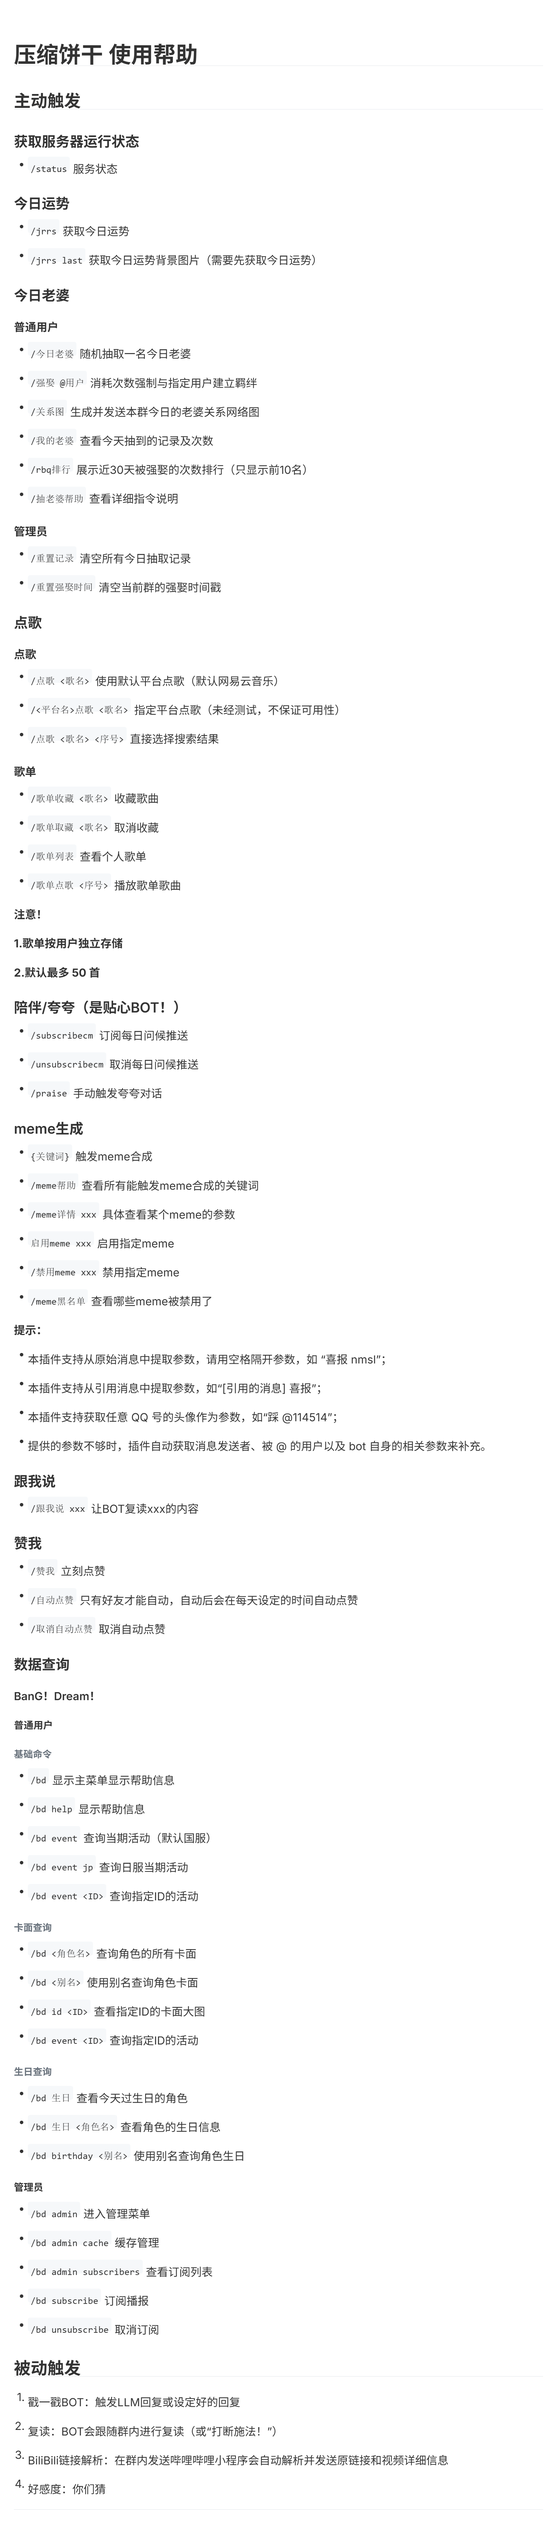
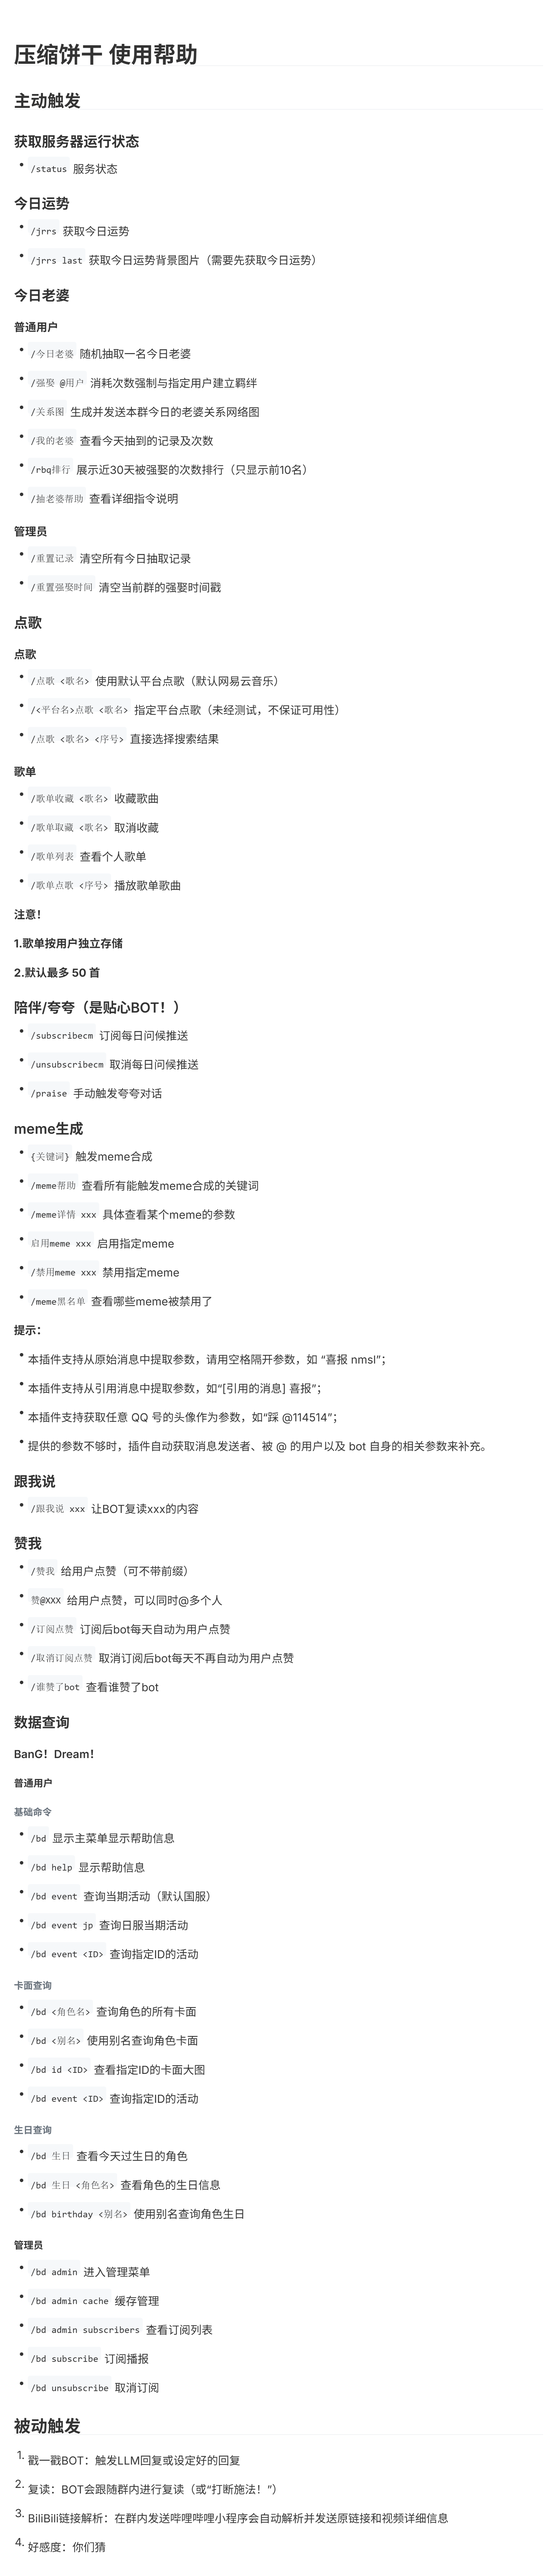
更新帮助内容

diff --git a/helps.md b/helps.md
@@ -96,11 +96,15 @@
 
 ### 赞我
 
-- `/赞我` 立刻点赞
+- `/赞我` 给用户点赞（可不带前缀）
 
-- `/自动点赞` 只有好友才能自动，自动后会在每天设定的时间自动点赞
+- `赞@XXX` 给用户点赞，可以同时@多个人
 
-- `/取消自动点赞` 取消自动点赞
+- `/订阅点赞` 订阅后bot每天自动为用户点赞
+
+- `/取消订阅点赞` 取消订阅后bot每天不再自动为用户点赞
+
+- `/谁赞了bot` 查看谁赞了bot
 ### 数据查询
 
 #### BanG！Dream！
